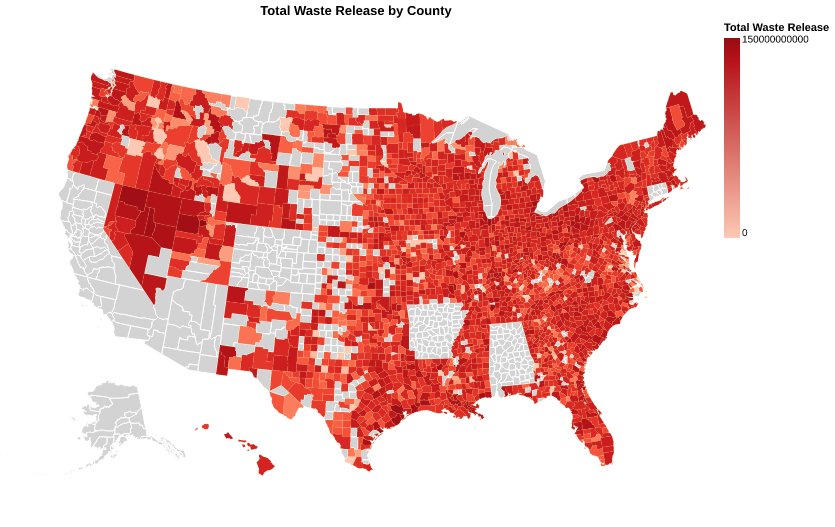
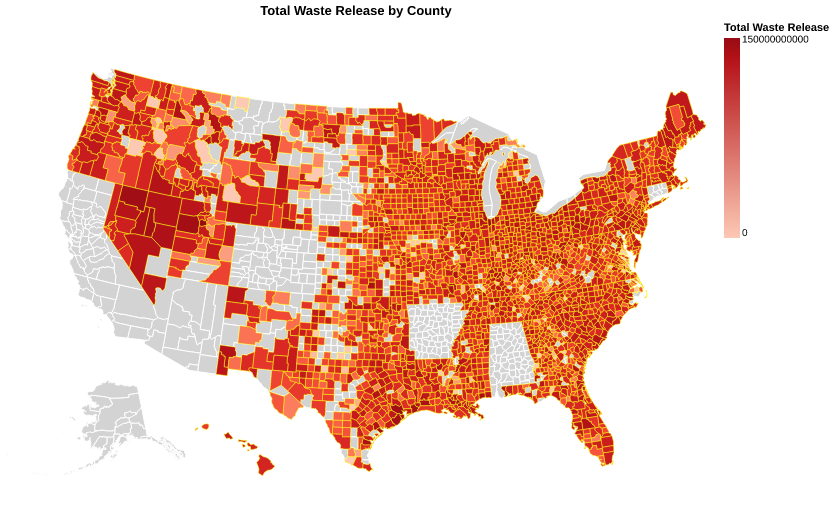
Updated the geographic map so they have a yellow border around them

Changed region(s): [[0.0623, 0.1214, 0.8407, 0.8805], [0.2802, 0.8197, 0.3114, 0.8501]]

diff --git a/Frontend/chart/total_waste_throughout_top_10.html b/Frontend/chart/total_waste_throughout_top_10.html
@@ -21,7 +21,7 @@
   <div id="vis"></div>
   <script>
     (function(vegaEmbed) {
-      var spec = {"config": {"view": {"continuousWidth": 300, "continuousHeight": 300, "strokeWidth": 0}, "axis": {"grid": true, "gridColor": "lightgray", "gridOpacity": 0.5}}, "data": {"name": "data-b077d0551786ff52b61a34fe597e2ca4"}, "mark": {"type": "line", "point": {"filled": true, "size": 50}, "strokeWidth": 2}, "encoding": {"color": {"field": "name", "legend": {"columns": 2, "orient": "bottom", "title": "Facility"}, "sort": "-y", "type": "nominal"}, "opacity": {"condition": {"param": "facility_select", "value": 1}, "value": 0.1}, "strokeWidth": {"condition": {"param": "param_e08472389db92520", "value": 4}, "value": 2}, "tooltip": [{"field": "name", "title": "Facility", "type": "nominal"}, {"field": "create_month", "format": "%B %Y", "title": "Date", "type": "temporal"}, {"field": "total_release", "format": ",.0f", "title": "Total Release", "type": "quantitative"}], "x": {"axis": {"format": "%b %Y", "labelAngle": -45, "title": "Date"}, "field": "create_month", "title": null, "type": "temporal"}, "y": {"axis": {"format": ",.0f", "title": "Total Release (lbs)"}, "field": "total_release", "scale": {"zero": false}, "type": "quantitative"}}, "height": 400, "params": [{"name": "facility_select", "select": {"type": "point", "fields": ["name"]}, "bind": "legend"}, {"name": "param_1e9efca18e7a2868", "select": {"type": "interval", "encodings": ["x", "y"]}, "bind": "scales"}], "title": {"text": "Top 10 Facilities - Waste Release Trends", "subtitle": "Monthly aggregated releases in pounds", "fontSize": 16, "anchor": "start"}, "width": 800, "$schema": "https://vega.github.io/schema/vega-lite/v6.4.1.json", "datasets": {"data-b077d0551786ff52b61a34fe597e2ca4": [{"name": "KENNECOTT UTAH COPPER SMELTER & REFY.", "total_release": 1141477537.17, "create_month": "2005-03-01T00:00:00"}, {"name": "KENNECOTT UTAH COPPER SMELTER & REFY.", "total_release": 1141477537.17, "create_month": "2005-07-01T00:00:00"}, {"name": "KENNECOTT UTAH COPPER SMELTER & REFY.", "total_release": 1141477537.17, "create_month": "2006-07-01T00:00:00"}, {"name": "KENNECOTT UTAH COPPER SMELTER & REFY.", "total_release": 1141477537.17, "create_month": "2008-05-01T00:00:00"}, {"name": "KENNECOTT UTAH COPPER SMELTER & REFY.", "total_release": 1141477537.17, "create_month": "2008-06-01T00:00:00"}, {"name": "KENNECOTT UTAH COPPER SMELTER & REFY.", "total_release": 1141477537.17, "create_month": "2010-06-01T00:00:00"}, {"name": "KENNECOTT UTAH COPPER SMELTER & REFY.", "total_release": 1141477537.17, "create_month": "2010-07-01T00:00:00"}, {"name": "KENNECOTT UTAH COPPER SMELTER & REFY.", "total_release": 1141477537.17, "create_month": "2012-07-01T00:00:00"}, {"name": "KENNECOTT UTAH COPPER SMELTER & REFY.", "total_release": 1141477537.17, "create_month": "2012-11-01T00:00:00"}, {"name": "KENNECOTT UTAH COPPER SMELTER & REFY.", "total_release": 1141477537.17, "create_month": "2013-07-01T00:00:00"}, {"name": "KENNECOTT UTAH COPPER SMELTER & REFY.", "total_release": 1141477537.17, "create_month": "2014-06-01T00:00:00"}, {"name": "KENNECOTT UTAH COPPER SMELTER & REFY.", "total_release": 1141477537.17, "create_month": "2015-06-01T00:00:00"}, {"name": "KENNECOTT GREENS CREEK MINING CO.", "total_release": 1446325928.54, "create_month": "2016-06-01T00:00:00"}, {"name": "KENNECOTT UTAH COPPER MINE CONCENTRATORS & POWER PLANT", "total_release": 4867635476.34, "create_month": "2016-06-01T00:00:00"}, {"name": "KENNECOTT UTAH COPPER SMELTER & REFY.", "total_release": 1141477537.17, "create_month": "2016-06-01T00:00:00"}, {"name": "PHELPS DODGE MIAMI INC.", "total_release": 1336876647.69, "create_month": "2016-06-01T00:00:00"}, {"name": "CYTEC INDUSTRIES INC FORTIER PLANT", "total_release": 1605566272.02, "create_month": "2016-07-01T00:00:00"}, {"name": "US MAGNESIUM LLC", "total_release": 1153775625.17, "create_month": "2016-07-01T00:00:00"}, {"name": "CYTEC INDUSTRIES INC FORTIER PLANT", "total_release": 1605566272.02, "create_month": "2017-06-01T00:00:00"}, {"name": "KENNECOTT GREENS CREEK MINING CO.", "total_release": 1446325928.54, "create_month": "2017-06-01T00:00:00"}, {"name": "KENNECOTT UTAH COPPER MINE CONCENTRATORS & POWER PLANT", "total_release": 4867635476.34, "create_month": "2017-06-01T00:00:00"}, {"name": "KENNECOTT UTAH COPPER SMELTER & REFY.", "total_release": 1141477537.17, "create_month": "2017-06-01T00:00:00"}, {"name": "NEWMONT MINING CORP. TWIN CREEKS MINE", "total_release": 2925026171.17, "create_month": "2017-06-01T00:00:00"}, {"name": "PHELPS DODGE MIAMI INC.", "total_release": 1336876647.69, "create_month": "2017-06-01T00:00:00"}, {"name": "US MAGNESIUM LLC", "total_release": 1153775625.17, "create_month": "2017-06-01T00:00:00"}, {"name": "CYTEC INDUSTRIES INC FORTIER PLANT", "total_release": 44955855616.45, "create_month": "2018-05-01T00:00:00"}, {"name": "KENNECOTT GREENS CREEK MINING CO.", "total_release": 24587540785.21, "create_month": "2018-05-01T00:00:00"}, {"name": "KENNECOTT UTAH COPPER MINE CONCENTRATORS & POWER PLANT", "total_release": 82749803097.74, "create_month": "2018-05-01T00:00:00"}, {"name": "KENNECOTT UTAH COPPER SMELTER & REFY.", "total_release": 18263640594.76, "create_month": "2018-05-01T00:00:00"}, {"name": "NEWMONT MINING CORPORATION- CARLIN SOUTH AREA", "total_release": 26225934026.77, "create_month": "2018-05-01T00:00:00"}, {"name": "NEWMONT MINING CORP. TWIN CREEKS MINE", "total_release": 49725444909.87, "create_month": "2018-05-01T00:00:00"}, {"name": "NORTH AMERICAN CHEMICAL CO.,", "total_release": 78575164986.11, "create_month": "2018-05-01T00:00:00"}, {"name": "PHELPS DODGE MIAMI INC.", "total_release": 37432546135.31, "create_month": "2018-05-01T00:00:00"}, {"name": "RED DOG OPS. MINE FACILITY", "total_release": 247591404192.08, "create_month": "2018-05-01T00:00:00"}, {"name": "US MAGNESIUM LLC", "total_release": 32305717504.85, "create_month": "2018-05-01T00:00:00"}, {"name": "CYTEC INDUSTRIES INC FORTIER PLANT", "total_release": 1605566272.02, "create_month": "2018-06-01T00:00:00"}, {"name": "KENNECOTT GREENS CREEK MINING CO.", "total_release": 1446325928.54, "create_month": "2018-06-01T00:00:00"}, {"name": "KENNECOTT UTAH COPPER MINE CONCENTRATORS & POWER PLANT", "total_release": 4867635476.34, "create_month": "2018-06-01T00:00:00"}, {"name": "KENNECOTT UTAH COPPER SMELTER & REFY.", "total_release": 1141477537.17, "create_month": "2018-06-01T00:00:00"}, {"name": "PHELPS DODGE MIAMI INC.", "total_release": 1336876647.69, "create_month": "2018-06-01T00:00:00"}, {"name": "RED DOG OPS. MINE FACILITY", "total_release": 17685100299.43, "create_month": "2018-06-01T00:00:00"}, {"name": "US MAGNESIUM LLC", "total_release": 1153775625.17, "create_month": "2018-07-01T00:00:00"}, {"name": "RED DOG OPS. MINE FACILITY", "total_release": 53055300898.3, "create_month": "2018-10-01T00:00:00"}, {"name": "CYTEC INDUSTRIES INC FORTIER PLANT", "total_release": 1605566272.02, "create_month": "2019-06-01T00:00:00"}, {"name": "KENNECOTT UTAH COPPER MINE CONCENTRATORS & POWER PLANT", "total_release": 4867635476.34, "create_month": "2019-06-01T00:00:00"}, {"name": "KENNECOTT UTAH COPPER SMELTER & REFY.", "total_release": 1141477537.17, "create_month": "2019-06-01T00:00:00"}, {"name": "NEWMONT MINING CORP. TWIN CREEKS MINE", "total_release": 2925026171.17, "create_month": "2019-06-01T00:00:00"}, {"name": "PHELPS DODGE MIAMI INC.", "total_release": 1336876647.69, "create_month": "2019-06-01T00:00:00"}, {"name": "RED DOG OPS. MINE FACILITY", "total_release": 53055300898.3, "create_month": "2019-06-01T00:00:00"}, {"name": "KENNECOTT GREENS CREEK MINING CO.", "total_release": 1446325928.54, "create_month": "2019-07-01T00:00:00"}, {"name": "US MAGNESIUM LLC", "total_release": 1153775625.17, "create_month": "2019-07-01T00:00:00"}, {"name": "CYTEC INDUSTRIES INC FORTIER PLANT", "total_release": 1605566272.02, "create_month": "2020-06-01T00:00:00"}, {"name": "KENNECOTT GREENS CREEK MINING CO.", "total_release": 1446325928.54, "create_month": "2020-06-01T00:00:00"}, {"name": "KENNECOTT UTAH COPPER SMELTER & REFY.", "total_release": 1141477537.17, "create_month": "2020-06-01T00:00:00"}, {"name": "NEWMONT MINING CORPORATION- CARLIN SOUTH AREA", "total_release": 1542702001.57, "create_month": "2020-06-01T00:00:00"}, {"name": "PHELPS DODGE MIAMI INC.", "total_release": 1336876647.69, "create_month": "2020-06-01T00:00:00"}, {"name": "US MAGNESIUM LLC", "total_release": 1153775625.17, "create_month": "2020-07-01T00:00:00"}, {"name": "KENNECOTT UTAH COPPER MINE CONCENTRATORS & POWER PLANT", "total_release": 4867635476.34, "create_month": "2020-08-01T00:00:00"}, {"name": "NEWMONT MINING CORPORATION- CARLIN SOUTH AREA", "total_release": 6170808006.3, "create_month": "2021-02-01T00:00:00"}, {"name": "NEWMONT MINING CORP. TWIN CREEKS MINE", "total_release": 5850052342.34, "create_month": "2021-02-01T00:00:00"}, {"name": "CYTEC INDUSTRIES INC FORTIER PLANT", "total_release": 1605566272.02, "create_month": "2021-06-01T00:00:00"}, {"name": "KENNECOTT UTAH COPPER MINE CONCENTRATORS & POWER PLANT", "total_release": 4867635476.34, "create_month": "2021-06-01T00:00:00"}, {"name": "KENNECOTT UTAH COPPER SMELTER & REFY.", "total_release": 1141477537.17, "create_month": "2021-06-01T00:00:00"}, {"name": "NEWMONT MINING CORPORATION- CARLIN SOUTH AREA", "total_release": 1542702001.57, "create_month": "2021-06-01T00:00:00"}, {"name": "PHELPS DODGE MIAMI INC.", "total_release": 1336876647.69, "create_month": "2021-06-01T00:00:00"}, {"name": "RED DOG OPS. MINE FACILITY", "total_release": 17685100299.43, "create_month": "2021-06-01T00:00:00"}, {"name": "KENNECOTT GREENS CREEK MINING CO.", "total_release": 1446325928.54, "create_month": "2021-07-01T00:00:00"}, {"name": "RED DOG OPS. MINE FACILITY", "total_release": 17685100299.43, "create_month": "2022-04-01T00:00:00"}, {"name": "KENNECOTT GREENS CREEK MINING CO.", "total_release": 1446325928.54, "create_month": "2022-06-01T00:00:00"}, {"name": "KENNECOTT UTAH COPPER MINE CONCENTRATORS & POWER PLANT", "total_release": 4867635476.34, "create_month": "2022-06-01T00:00:00"}, {"name": "KENNECOTT UTAH COPPER SMELTER & REFY.", "total_release": 1141477537.17, "create_month": "2022-06-01T00:00:00"}, {"name": "NEWMONT MINING CORPORATION- CARLIN SOUTH AREA", "total_release": 1542702001.57, "create_month": "2022-06-01T00:00:00"}, {"name": "PHELPS DODGE MIAMI INC.", "total_release": 1336876647.69, "create_month": "2022-06-01T00:00:00"}, {"name": "RED DOG OPS. MINE FACILITY", "total_release": 17685100299.43, "create_month": "2022-06-01T00:00:00"}, {"name": "CYTEC INDUSTRIES INC FORTIER PLANT", "total_release": 1605566272.02, "create_month": "2022-07-01T00:00:00"}, {"name": "US MAGNESIUM LLC", "total_release": 1153775625.17, "create_month": "2022-07-01T00:00:00"}, {"name": "US MAGNESIUM LLC", "total_release": 1153775625.17, "create_month": "2023-05-01T00:00:00"}, {"name": "CYTEC INDUSTRIES INC FORTIER PLANT", "total_release": 1605566272.02, "create_month": "2023-06-01T00:00:00"}, {"name": "KENNECOTT GREENS CREEK MINING CO.", "total_release": 1446325928.54, "create_month": "2023-06-01T00:00:00"}, {"name": "KENNECOTT UTAH COPPER MINE CONCENTRATORS & POWER PLANT", "total_release": 4867635476.34, "create_month": "2023-06-01T00:00:00"}, {"name": "KENNECOTT UTAH COPPER SMELTER & REFY.", "total_release": 1141477537.17, "create_month": "2023-06-01T00:00:00"}, {"name": "PHELPS DODGE MIAMI INC.", "total_release": 1336876647.69, "create_month": "2023-06-01T00:00:00"}, {"name": "RED DOG OPS. MINE FACILITY", "total_release": 17685100299.43, "create_month": "2023-06-01T00:00:00"}, {"name": "NEWMONT MINING CORPORATION- CARLIN SOUTH AREA", "total_release": 1542702001.57, "create_month": "2023-07-01T00:00:00"}, {"name": "US MAGNESIUM LLC", "total_release": 2307551250.35, "create_month": "2024-04-01T00:00:00"}, {"name": "CYTEC INDUSTRIES INC FORTIER PLANT", "total_release": 1605566272.02, "create_month": "2024-06-01T00:00:00"}, {"name": "KENNECOTT GREENS CREEK MINING CO.", "total_release": 1446325928.54, "create_month": "2024-06-01T00:00:00"}, {"name": "KENNECOTT UTAH COPPER MINE CONCENTRATORS & POWER PLANT", "total_release": 4867635476.34, "create_month": "2024-06-01T00:00:00"}, {"name": "KENNECOTT UTAH COPPER SMELTER & REFY.", "total_release": 1141477537.17, "create_month": "2024-06-01T00:00:00"}, {"name": "PHELPS DODGE MIAMI INC.", "total_release": 1336876647.69, "create_month": "2024-06-01T00:00:00"}, {"name": "RED DOG OPS. MINE FACILITY", "total_release": 17685100299.43, "create_month": "2024-06-01T00:00:00"}, {"name": "NEWMONT MINING CORPORATION- CARLIN SOUTH AREA", "total_release": 1542702001.57, "create_month": "2024-07-01T00:00:00"}, {"name": "CYTEC INDUSTRIES INC FORTIER PLANT", "total_release": 1605566272.02, "create_month": "2025-06-01T00:00:00"}, {"name": "KENNECOTT GREENS CREEK MINING CO.", "total_release": 1446325928.54, "create_month": "2025-06-01T00:00:00"}, {"name": "KENNECOTT UTAH COPPER MINE CONCENTRATORS & POWER PLANT", "total_release": 4867635476.34, "create_month": "2025-06-01T00:00:00"}, {"name": "KENNECOTT UTAH COPPER SMELTER & REFY.", "total_release": 1141477537.17, "create_month": "2025-06-01T00:00:00"}, {"name": "PHELPS DODGE MIAMI INC.", "total_release": 1336876647.69, "create_month": "2025-06-01T00:00:00"}, {"name": "RED DOG OPS. MINE FACILITY", "total_release": 17685100299.43, "create_month": "2025-06-01T00:00:00"}, {"name": "US MAGNESIUM LLC", "total_release": 1153775625.17, "create_month": "2025-06-01T00:00:00"}, {"name": "NEWMONT MINING CORPORATION- CARLIN SOUTH AREA", "total_release": 1542702001.57, "create_month": "2025-07-01T00:00:00"}]}};
+      var spec = {"config": {"view": {"continuousWidth": 300, "continuousHeight": 300, "strokeWidth": 0}, "axis": {"grid": true, "gridColor": "lightgray", "gridOpacity": 0.5}}, "data": {"name": "data-b077d0551786ff52b61a34fe597e2ca4"}, "mark": {"type": "line", "point": {"filled": true, "size": 50}, "strokeWidth": 2}, "encoding": {"color": {"field": "name", "legend": {"columns": 2, "orient": "bottom", "title": "Facility (click to filter)"}, "sort": "-y", "type": "nominal"}, "opacity": {"condition": {"param": "facility_select", "value": 1}, "value": 0.1}, "tooltip": [{"field": "name", "title": "Facility", "type": "nominal"}, {"field": "create_month", "format": "%B %Y", "title": "Date", "type": "temporal"}, {"field": "total_release", "format": ",.0f", "title": "Total Release", "type": "quantitative"}], "x": {"axis": {"format": "%b %Y", "labelAngle": -45, "title": "Date"}, "field": "create_month", "title": null, "type": "temporal"}, "y": {"axis": {"format": ",.0f", "title": "Total Release (lbs)"}, "field": "total_release", "scale": {"zero": false}, "type": "quantitative"}}, "height": 400, "params": [{"name": "facility_select", "select": {"type": "point", "fields": ["name"]}, "bind": "legend"}, {"name": "param_1e9efca18e7a2868", "select": {"type": "interval", "encodings": ["x", "y"]}, "bind": "scales"}], "title": {"text": "Top 10 Facilities - Waste Release Trends", "subtitle": "Click legend to filter \u2022 Hover for details", "fontSize": 16, "anchor": "start"}, "width": 800, "$schema": "https://vega.github.io/schema/vega-lite/v6.4.1.json", "datasets": {"data-b077d0551786ff52b61a34fe597e2ca4": [{"name": "KENNECOTT UTAH COPPER SMELTER & REFY.", "total_release": 1141477537.17, "create_month": "2005-03-01T00:00:00"}, {"name": "KENNECOTT UTAH COPPER SMELTER & REFY.", "total_release": 1141477537.17, "create_month": "2005-07-01T00:00:00"}, {"name": "KENNECOTT UTAH COPPER SMELTER & REFY.", "total_release": 1141477537.17, "create_month": "2006-07-01T00:00:00"}, {"name": "KENNECOTT UTAH COPPER SMELTER & REFY.", "total_release": 1141477537.17, "create_month": "2008-05-01T00:00:00"}, {"name": "KENNECOTT UTAH COPPER SMELTER & REFY.", "total_release": 1141477537.17, "create_month": "2008-06-01T00:00:00"}, {"name": "KENNECOTT UTAH COPPER SMELTER & REFY.", "total_release": 1141477537.17, "create_month": "2010-06-01T00:00:00"}, {"name": "KENNECOTT UTAH COPPER SMELTER & REFY.", "total_release": 1141477537.17, "create_month": "2010-07-01T00:00:00"}, {"name": "KENNECOTT UTAH COPPER SMELTER & REFY.", "total_release": 1141477537.17, "create_month": "2012-07-01T00:00:00"}, {"name": "KENNECOTT UTAH COPPER SMELTER & REFY.", "total_release": 1141477537.17, "create_month": "2012-11-01T00:00:00"}, {"name": "KENNECOTT UTAH COPPER SMELTER & REFY.", "total_release": 1141477537.17, "create_month": "2013-07-01T00:00:00"}, {"name": "KENNECOTT UTAH COPPER SMELTER & REFY.", "total_release": 1141477537.17, "create_month": "2014-06-01T00:00:00"}, {"name": "KENNECOTT UTAH COPPER SMELTER & REFY.", "total_release": 1141477537.17, "create_month": "2015-06-01T00:00:00"}, {"name": "KENNECOTT GREENS CREEK MINING CO.", "total_release": 1446325928.54, "create_month": "2016-06-01T00:00:00"}, {"name": "KENNECOTT UTAH COPPER MINE CONCENTRATORS & POWER PLANT", "total_release": 4867635476.34, "create_month": "2016-06-01T00:00:00"}, {"name": "KENNECOTT UTAH COPPER SMELTER & REFY.", "total_release": 1141477537.17, "create_month": "2016-06-01T00:00:00"}, {"name": "PHELPS DODGE MIAMI INC.", "total_release": 1336876647.69, "create_month": "2016-06-01T00:00:00"}, {"name": "CYTEC INDUSTRIES INC FORTIER PLANT", "total_release": 1605566272.02, "create_month": "2016-07-01T00:00:00"}, {"name": "US MAGNESIUM LLC", "total_release": 1153775625.17, "create_month": "2016-07-01T00:00:00"}, {"name": "CYTEC INDUSTRIES INC FORTIER PLANT", "total_release": 1605566272.02, "create_month": "2017-06-01T00:00:00"}, {"name": "KENNECOTT GREENS CREEK MINING CO.", "total_release": 1446325928.54, "create_month": "2017-06-01T00:00:00"}, {"name": "KENNECOTT UTAH COPPER MINE CONCENTRATORS & POWER PLANT", "total_release": 4867635476.34, "create_month": "2017-06-01T00:00:00"}, {"name": "KENNECOTT UTAH COPPER SMELTER & REFY.", "total_release": 1141477537.17, "create_month": "2017-06-01T00:00:00"}, {"name": "NEWMONT MINING CORP. TWIN CREEKS MINE", "total_release": 2925026171.17, "create_month": "2017-06-01T00:00:00"}, {"name": "PHELPS DODGE MIAMI INC.", "total_release": 1336876647.69, "create_month": "2017-06-01T00:00:00"}, {"name": "US MAGNESIUM LLC", "total_release": 1153775625.17, "create_month": "2017-06-01T00:00:00"}, {"name": "CYTEC INDUSTRIES INC FORTIER PLANT", "total_release": 44955855616.45, "create_month": "2018-05-01T00:00:00"}, {"name": "KENNECOTT GREENS CREEK MINING CO.", "total_release": 24587540785.21, "create_month": "2018-05-01T00:00:00"}, {"name": "KENNECOTT UTAH COPPER MINE CONCENTRATORS & POWER PLANT", "total_release": 82749803097.74, "create_month": "2018-05-01T00:00:00"}, {"name": "KENNECOTT UTAH COPPER SMELTER & REFY.", "total_release": 18263640594.76, "create_month": "2018-05-01T00:00:00"}, {"name": "NEWMONT MINING CORPORATION- CARLIN SOUTH AREA", "total_release": 26225934026.77, "create_month": "2018-05-01T00:00:00"}, {"name": "NEWMONT MINING CORP. TWIN CREEKS MINE", "total_release": 49725444909.87, "create_month": "2018-05-01T00:00:00"}, {"name": "NORTH AMERICAN CHEMICAL CO.,", "total_release": 78575164986.11, "create_month": "2018-05-01T00:00:00"}, {"name": "PHELPS DODGE MIAMI INC.", "total_release": 37432546135.31, "create_month": "2018-05-01T00:00:00"}, {"name": "RED DOG OPS. MINE FACILITY", "total_release": 247591404192.08, "create_month": "2018-05-01T00:00:00"}, {"name": "US MAGNESIUM LLC", "total_release": 32305717504.85, "create_month": "2018-05-01T00:00:00"}, {"name": "CYTEC INDUSTRIES INC FORTIER PLANT", "total_release": 1605566272.02, "create_month": "2018-06-01T00:00:00"}, {"name": "KENNECOTT GREENS CREEK MINING CO.", "total_release": 1446325928.54, "create_month": "2018-06-01T00:00:00"}, {"name": "KENNECOTT UTAH COPPER MINE CONCENTRATORS & POWER PLANT", "total_release": 4867635476.34, "create_month": "2018-06-01T00:00:00"}, {"name": "KENNECOTT UTAH COPPER SMELTER & REFY.", "total_release": 1141477537.17, "create_month": "2018-06-01T00:00:00"}, {"name": "PHELPS DODGE MIAMI INC.", "total_release": 1336876647.69, "create_month": "2018-06-01T00:00:00"}, {"name": "RED DOG OPS. MINE FACILITY", "total_release": 17685100299.43, "create_month": "2018-06-01T00:00:00"}, {"name": "US MAGNESIUM LLC", "total_release": 1153775625.17, "create_month": "2018-07-01T00:00:00"}, {"name": "RED DOG OPS. MINE FACILITY", "total_release": 53055300898.3, "create_month": "2018-10-01T00:00:00"}, {"name": "CYTEC INDUSTRIES INC FORTIER PLANT", "total_release": 1605566272.02, "create_month": "2019-06-01T00:00:00"}, {"name": "KENNECOTT UTAH COPPER MINE CONCENTRATORS & POWER PLANT", "total_release": 4867635476.34, "create_month": "2019-06-01T00:00:00"}, {"name": "KENNECOTT UTAH COPPER SMELTER & REFY.", "total_release": 1141477537.17, "create_month": "2019-06-01T00:00:00"}, {"name": "NEWMONT MINING CORP. TWIN CREEKS MINE", "total_release": 2925026171.17, "create_month": "2019-06-01T00:00:00"}, {"name": "PHELPS DODGE MIAMI INC.", "total_release": 1336876647.69, "create_month": "2019-06-01T00:00:00"}, {"name": "RED DOG OPS. MINE FACILITY", "total_release": 53055300898.3, "create_month": "2019-06-01T00:00:00"}, {"name": "KENNECOTT GREENS CREEK MINING CO.", "total_release": 1446325928.54, "create_month": "2019-07-01T00:00:00"}, {"name": "US MAGNESIUM LLC", "total_release": 1153775625.17, "create_month": "2019-07-01T00:00:00"}, {"name": "CYTEC INDUSTRIES INC FORTIER PLANT", "total_release": 1605566272.02, "create_month": "2020-06-01T00:00:00"}, {"name": "KENNECOTT GREENS CREEK MINING CO.", "total_release": 1446325928.54, "create_month": "2020-06-01T00:00:00"}, {"name": "KENNECOTT UTAH COPPER SMELTER & REFY.", "total_release": 1141477537.17, "create_month": "2020-06-01T00:00:00"}, {"name": "NEWMONT MINING CORPORATION- CARLIN SOUTH AREA", "total_release": 1542702001.57, "create_month": "2020-06-01T00:00:00"}, {"name": "PHELPS DODGE MIAMI INC.", "total_release": 1336876647.69, "create_month": "2020-06-01T00:00:00"}, {"name": "US MAGNESIUM LLC", "total_release": 1153775625.17, "create_month": "2020-07-01T00:00:00"}, {"name": "KENNECOTT UTAH COPPER MINE CONCENTRATORS & POWER PLANT", "total_release": 4867635476.34, "create_month": "2020-08-01T00:00:00"}, {"name": "NEWMONT MINING CORPORATION- CARLIN SOUTH AREA", "total_release": 6170808006.3, "create_month": "2021-02-01T00:00:00"}, {"name": "NEWMONT MINING CORP. TWIN CREEKS MINE", "total_release": 5850052342.34, "create_month": "2021-02-01T00:00:00"}, {"name": "CYTEC INDUSTRIES INC FORTIER PLANT", "total_release": 1605566272.02, "create_month": "2021-06-01T00:00:00"}, {"name": "KENNECOTT UTAH COPPER MINE CONCENTRATORS & POWER PLANT", "total_release": 4867635476.34, "create_month": "2021-06-01T00:00:00"}, {"name": "KENNECOTT UTAH COPPER SMELTER & REFY.", "total_release": 1141477537.17, "create_month": "2021-06-01T00:00:00"}, {"name": "NEWMONT MINING CORPORATION- CARLIN SOUTH AREA", "total_release": 1542702001.57, "create_month": "2021-06-01T00:00:00"}, {"name": "PHELPS DODGE MIAMI INC.", "total_release": 1336876647.69, "create_month": "2021-06-01T00:00:00"}, {"name": "RED DOG OPS. MINE FACILITY", "total_release": 17685100299.43, "create_month": "2021-06-01T00:00:00"}, {"name": "KENNECOTT GREENS CREEK MINING CO.", "total_release": 1446325928.54, "create_month": "2021-07-01T00:00:00"}, {"name": "RED DOG OPS. MINE FACILITY", "total_release": 17685100299.43, "create_month": "2022-04-01T00:00:00"}, {"name": "KENNECOTT GREENS CREEK MINING CO.", "total_release": 1446325928.54, "create_month": "2022-06-01T00:00:00"}, {"name": "KENNECOTT UTAH COPPER MINE CONCENTRATORS & POWER PLANT", "total_release": 4867635476.34, "create_month": "2022-06-01T00:00:00"}, {"name": "KENNECOTT UTAH COPPER SMELTER & REFY.", "total_release": 1141477537.17, "create_month": "2022-06-01T00:00:00"}, {"name": "NEWMONT MINING CORPORATION- CARLIN SOUTH AREA", "total_release": 1542702001.57, "create_month": "2022-06-01T00:00:00"}, {"name": "PHELPS DODGE MIAMI INC.", "total_release": 1336876647.69, "create_month": "2022-06-01T00:00:00"}, {"name": "RED DOG OPS. MINE FACILITY", "total_release": 17685100299.43, "create_month": "2022-06-01T00:00:00"}, {"name": "CYTEC INDUSTRIES INC FORTIER PLANT", "total_release": 1605566272.02, "create_month": "2022-07-01T00:00:00"}, {"name": "US MAGNESIUM LLC", "total_release": 1153775625.17, "create_month": "2022-07-01T00:00:00"}, {"name": "US MAGNESIUM LLC", "total_release": 1153775625.17, "create_month": "2023-05-01T00:00:00"}, {"name": "CYTEC INDUSTRIES INC FORTIER PLANT", "total_release": 1605566272.02, "create_month": "2023-06-01T00:00:00"}, {"name": "KENNECOTT GREENS CREEK MINING CO.", "total_release": 1446325928.54, "create_month": "2023-06-01T00:00:00"}, {"name": "KENNECOTT UTAH COPPER MINE CONCENTRATORS & POWER PLANT", "total_release": 4867635476.34, "create_month": "2023-06-01T00:00:00"}, {"name": "KENNECOTT UTAH COPPER SMELTER & REFY.", "total_release": 1141477537.17, "create_month": "2023-06-01T00:00:00"}, {"name": "PHELPS DODGE MIAMI INC.", "total_release": 1336876647.69, "create_month": "2023-06-01T00:00:00"}, {"name": "RED DOG OPS. MINE FACILITY", "total_release": 17685100299.43, "create_month": "2023-06-01T00:00:00"}, {"name": "NEWMONT MINING CORPORATION- CARLIN SOUTH AREA", "total_release": 1542702001.57, "create_month": "2023-07-01T00:00:00"}, {"name": "US MAGNESIUM LLC", "total_release": 2307551250.35, "create_month": "2024-04-01T00:00:00"}, {"name": "CYTEC INDUSTRIES INC FORTIER PLANT", "total_release": 1605566272.02, "create_month": "2024-06-01T00:00:00"}, {"name": "KENNECOTT GREENS CREEK MINING CO.", "total_release": 1446325928.54, "create_month": "2024-06-01T00:00:00"}, {"name": "KENNECOTT UTAH COPPER MINE CONCENTRATORS & POWER PLANT", "total_release": 4867635476.34, "create_month": "2024-06-01T00:00:00"}, {"name": "KENNECOTT UTAH COPPER SMELTER & REFY.", "total_release": 1141477537.17, "create_month": "2024-06-01T00:00:00"}, {"name": "PHELPS DODGE MIAMI INC.", "total_release": 1336876647.69, "create_month": "2024-06-01T00:00:00"}, {"name": "RED DOG OPS. MINE FACILITY", "total_release": 17685100299.43, "create_month": "2024-06-01T00:00:00"}, {"name": "NEWMONT MINING CORPORATION- CARLIN SOUTH AREA", "total_release": 1542702001.57, "create_month": "2024-07-01T00:00:00"}, {"name": "CYTEC INDUSTRIES INC FORTIER PLANT", "total_release": 1605566272.02, "create_month": "2025-06-01T00:00:00"}, {"name": "KENNECOTT GREENS CREEK MINING CO.", "total_release": 1446325928.54, "create_month": "2025-06-01T00:00:00"}, {"name": "KENNECOTT UTAH COPPER MINE CONCENTRATORS & POWER PLANT", "total_release": 4867635476.34, "create_month": "2025-06-01T00:00:00"}, {"name": "KENNECOTT UTAH COPPER SMELTER & REFY.", "total_release": 1141477537.17, "create_month": "2025-06-01T00:00:00"}, {"name": "PHELPS DODGE MIAMI INC.", "total_release": 1336876647.69, "create_month": "2025-06-01T00:00:00"}, {"name": "RED DOG OPS. MINE FACILITY", "total_release": 17685100299.43, "create_month": "2025-06-01T00:00:00"}, {"name": "US MAGNESIUM LLC", "total_release": 1153775625.17, "create_month": "2025-06-01T00:00:00"}, {"name": "NEWMONT MINING CORPORATION- CARLIN SOUTH AREA", "total_release": 1542702001.57, "create_month": "2025-07-01T00:00:00"}]}};
       var embedOpt = {"mode": "vega-lite"};
 
       function showError(el, error){

diff --git a/Frontend/TRI_analysis.py b/Frontend/TRI_analysis.py
@@ -69,16 +69,25 @@ def total_waste_througout_from_top_10_facility_chart_generator_interactive():
     print(f"DataFrame memory usage: {total_waste_throught_from_top_10_df.memory_usage(deep=True).sum() / 1024**2:.2f} MB")
     print(f"Unique names: {total_waste_throught_from_top_10_df['name'].nunique()}")
 
+    # Create selection for legend interaction (click to filter)
     selection = alt.selection_point(
         fields=['name'],
-        bind = 'legend',
-        name = 'facility_select'
+        bind='legend',
+        name='facility_select'
     )
+    
+    # Create hover selection for highlighting
+    hover = alt.selection_point(
+        fields=['name'],
+        on='mouseover',
+        name='hover'
+    )
+    
     total_waste_throughout_top_10_chart = alt.Chart(total_waste_throught_from_top_10_df).mark_line(
         strokeWidth=2,
         point=alt.OverlayMarkDef(
-            filled = True,
-            size = 50
+            filled=True,
+            size=50
         )
     ).encode(
         x=alt.X('create_month:T', 
@@ -86,27 +95,26 @@ def total_waste_througout_from_top_10_facility_chart_generator_interactive():
                 title=None),
         y=alt.Y('total_release:Q', 
                 axis=alt.Axis(format=',.0f', title='Total Release (lbs)'),
-                scale=alt.Scale(zero=False)),  # Don't force y-axis to start at 0
+                scale=alt.Scale(zero=False)),
         color=alt.Color('name:N', 
-                        legend=alt.Legend(title='Facility', orient='bottom', columns=2),
+                        legend=alt.Legend(title='Facility (click to filter)', orient='bottom', columns=2),
                         sort='-y'),
         tooltip=[
-            alt.Tooltip('name:N', title = 'Facility'),
-            alt.Tooltip('create_month:T', title='Date', format= '%B %Y'),
-            alt.Tooltip('total_release:Q', title = 'Total Release', format =',.0f'),
+            alt.Tooltip('name:N', title='Facility'),
+            alt.Tooltip('create_month:T', title='Date', format='%B %Y'),
+            alt.Tooltip('total_release:Q', title='Total Release', format=',.0f'),
         ],
+        # Opacity changes based on legend selection
         opacity=alt.condition(selection, alt.value(1), alt.value(0.1)),
-        strokeWidth = alt.condition(
-            alt.selection_point(fields=['name'], toggle=False, nearest =True),
-            alt.value(4),
-            alt.value(2)
-        )
+        # Stroke width changes based on hover
+        strokeWidth=alt.condition(hover, alt.value(4), alt.value(2))
     ).add_params(
-        selection
+        selection,
+        hover  # Add hover parameter
     ).properties(
         title={
             'text': 'Top 10 Facilities - Waste Release Trends',
-            'subtitle': 'Monthly aggregated releases in pounds',
+            'subtitle': 'Click legend to filter • Hover to highlight',
             'fontSize': 16,
             'anchor': 'start'
         },
@@ -121,6 +129,8 @@ def total_waste_througout_from_top_10_facility_chart_generator_interactive():
     ).interactive()
 
     total_waste_throughout_top_10_chart.save('Frontend/chart/total_waste_throughout_top_10.html')
+    return total_waste_throughout_top_10_chart
+    
     
 def total_waste_by_location_throughout_or_After_2020(choice = ""):
     if choice == 'After':
@@ -244,8 +254,8 @@ def total_waste_by_counties_throughout_or_After_2020(choice = ""):
         ),
         strokeWidth= alt.condition(
             click_select,
-            alt.value(0.05),
-            alt.value(0.05)
+            alt.value(0.5),
+            alt.value(0.5)
         )
     ).add_params(
         click_select
@@ -311,13 +321,67 @@ def map_db_counties_to_fips_code(location_db):
 
     return location_db
 
+def total_waste_througout_from_top_10_facility_chart_generator_interactive2():
+    total_waste_throught_from_top_10_df = pd.read_sql(queries["Total_Waste_Throughout_top_10"], con=engine)
 
+    # Just use one selection for legend filtering
+    selection = alt.selection_point(
+        fields=['name'],
+        bind='legend',
+        name='facility_select'
+    )
+    
+    total_waste_throughout_top_10_chart = alt.Chart(total_waste_throught_from_top_10_df).mark_line(
+        strokeWidth=2,
+        point=alt.OverlayMarkDef(
+            filled=True,
+            size=50
+        )
+    ).encode(
+        x=alt.X('create_month:T', 
+                axis=alt.Axis(format='%b %Y', labelAngle=-45, title='Date'),
+                title=None),
+        y=alt.Y('total_release:Q', 
+                axis=alt.Axis(format=',.0f', title='Total Release (lbs)'),
+                scale=alt.Scale(zero=False)),
+        color=alt.Color('name:N', 
+                        legend=alt.Legend(title='Facility (click to filter)', orient='bottom', columns=2),
+                        sort='-y'),
+        tooltip=[
+            alt.Tooltip('name:N', title='Facility'),
+            alt.Tooltip('create_month:T', title='Date', format='%B %Y'),
+            alt.Tooltip('total_release:Q', title='Total Release', format=',.0f'),
+        ],
+        # Only use opacity change based on legend selection
+        opacity=alt.condition(selection, alt.value(1), alt.value(0.1))
+    ).add_params(
+        selection
+    ).properties(
+        title={
+            'text': 'Top 10 Facilities - Waste Release Trends',
+            'subtitle': 'Click legend to filter • Hover for details',
+            'fontSize': 16,
+            'anchor': 'start'
+        },
+        width=800,
+        height=400
+    ).configure_axis(
+        grid=True,
+        gridColor='lightgray',
+        gridOpacity=0.5
+    ).configure_view(
+        strokeWidth=0  
+    ).interactive()
+
+    total_waste_throughout_top_10_chart.save('Frontend/chart/total_waste_throughout_top_10.html')
+    
+    return total_waste_throughout_top_10_chart
 #total_waste_by_location_throughout_or_After_2020(choice = 'After')
 #total_waste_by_counties_throughout_or_After_2020()
 
 #total_waste_througout_from_top_10_facility_chart_generator()
-#total_waste_througout_from_top_10_facility_chart_generator_interactive()
-total_waste_by_counties_throughout_or_After_2020(choice = 'After')
+#total_waste_througout_from_top_10_facility_chart_generator_interactive2()
+total_waste_by_counties_throughout_or_After_2020()
 
 end_time = time.time()
 print(f"Runtime {end_time - start_time} Seconds.")